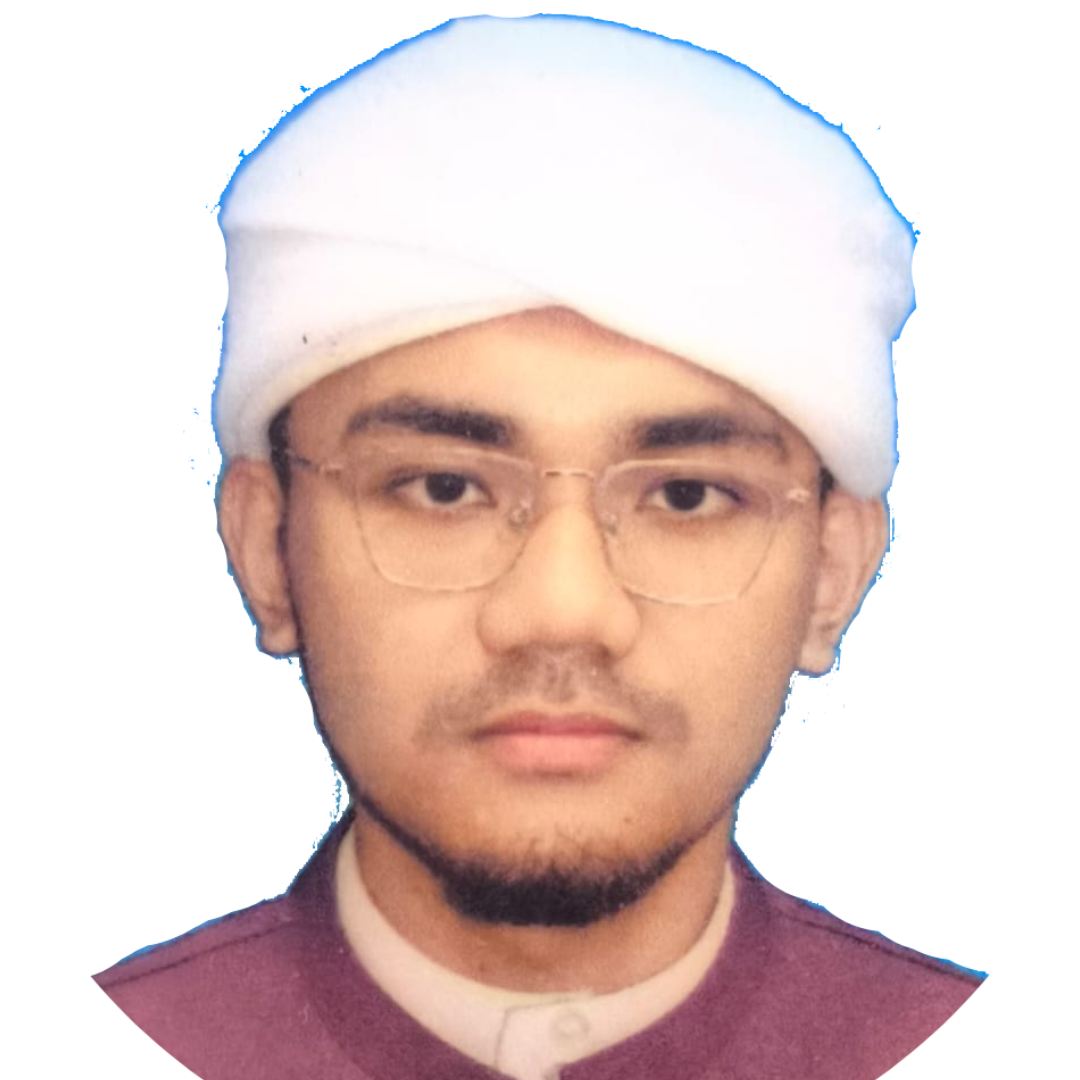
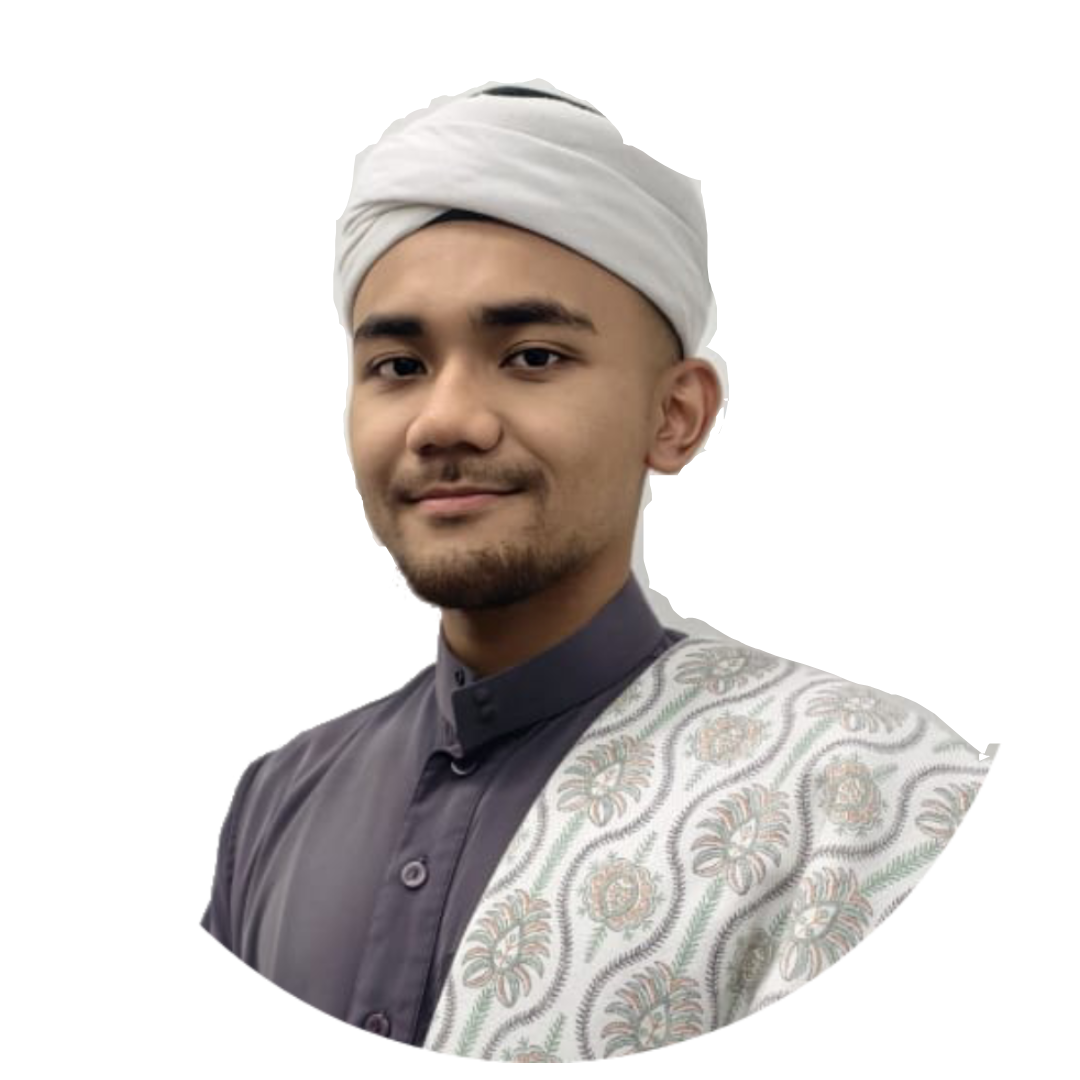
Added Amir data

diff --git a/src/components/settings/CopySpeakerCode.tsx b/src/components/settings/CopySpeakerCode.tsx
@@ -3,6 +3,7 @@ import { For } from "solid-js";
 const speakers = [
   { code: "asyari", name: "YBhg Ustaz Asyari" },
   { code: "asyraf", name: "YBhg Ustaz Asyraf" },
+  { code: "amir", name: "YBhg Ustaz Amir" },
   { code: "azmi", name: "YBhg Ustaz Haji Azmi bin Sabdin" },
   { code: "azri", name: "YBhg Ustaz Azri Zulhilmi bin Zakaria" },
   { code: "hazwan", name: "YBhg Ustaz Hazwan" },
@@ -17,7 +18,7 @@ const speakers = [
   { code: "syakir", name: "YBhg Ustaz Syakir" },
   { code: "wan", name: "YBhg Ustaz Wan Muhammad Abd Halim" },
   { code: "zakaria", name: "YBhg Ustaz Zakaria" },
-  { code: "muhdafiq", name: "YBhg Ustaz Muhammad Afiq" },
+  { code: "muhdafiq", name: "YBhg Ustaz Muhammad Afiq Abd Aziz" },
   { code: "muhdafiqeman", name: "YBhg Ustaz Muhammad Afiq Eman" },
 ];
 
